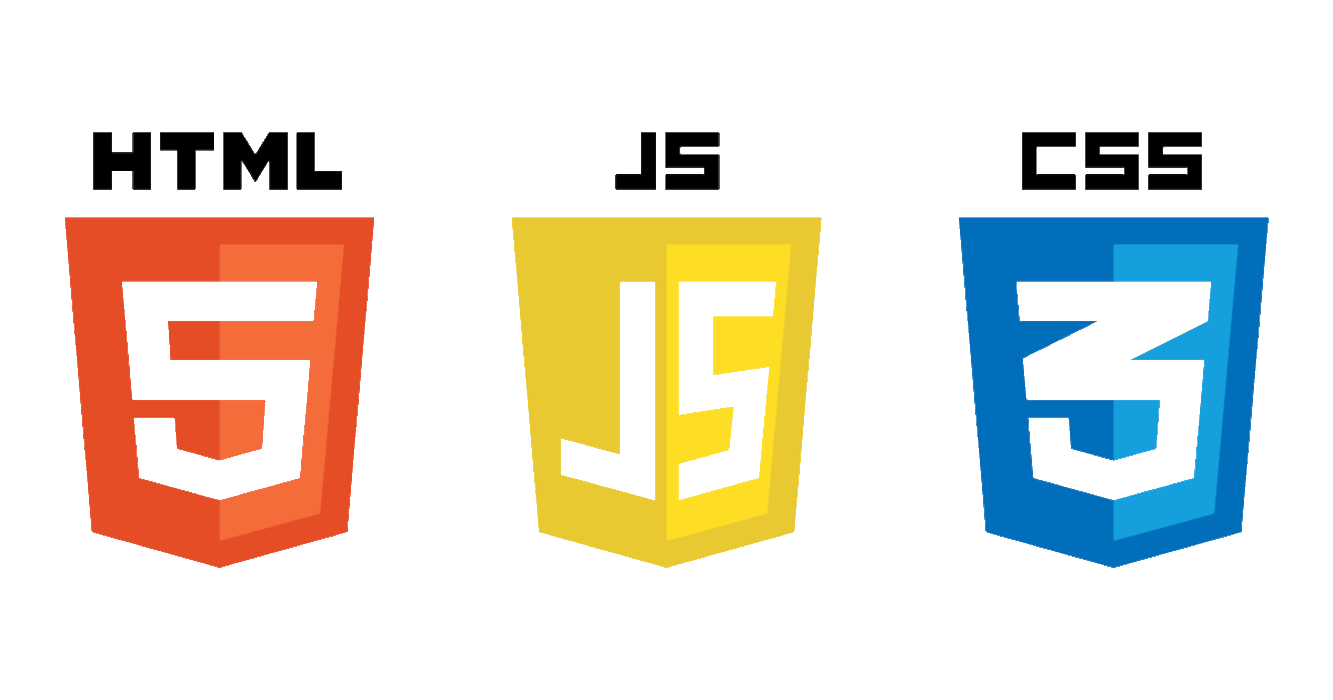
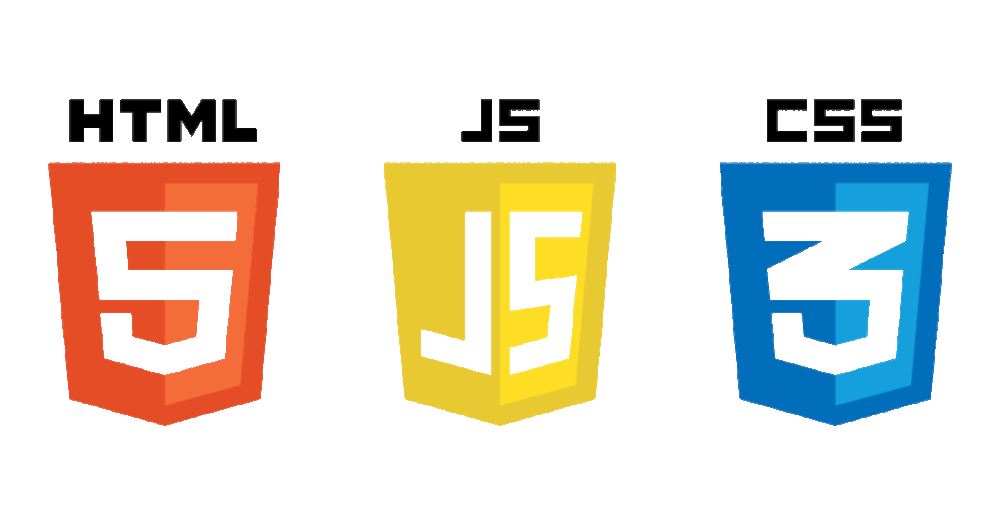
Fixed the image sizing bug that would distort the image when scrolled on carousel.

diff --git a/src/pages/personal/personal.jsx b/src/pages/personal/personal.jsx
@@ -44,7 +44,7 @@ export const Personal = () => {
             </div>
             
             
-            <div id="carouselExampleCaptions" class="carousel slide ">
+            <div id="carouselExampleCaptions" class="carousel slide">
                 <div class="carousel-indicators">
                  <button type="button" data-bs-target="#carouselExampleCaptions" data-bs-slide-to="0" class="active" aria-current="true" aria-label="Slide 1"></button>
                  <button type="button" data-bs-target="#carouselExampleCaptions" data-bs-slide-to="1" aria-label="Slide 2"></button>
@@ -52,7 +52,7 @@ export const Personal = () => {
             </div>
             <div class="carousel-inner">
               <div class="carousel-item active ">
-                <img src={fEndLanguage} class="d-block w-100"  alt="Font-end languages logo"/>
+                <img src={fEndLanguage} class="d-block w-100" alt="Font-end languages logo"/>
                 <div class="carousel-caption d-none d-md-block">
                   <h5> Coding Languages</h5>
                   <p>Unlock the potential of your online presence with expertise in HTML, CSS and JavaScript.</p>

diff --git a/src/pages/personal/personal.css b/src/pages/personal/personal.css
@@ -21,13 +21,14 @@
 
  /* Misc. Style attributes */
 .carousel-item {
-    height: 510px;
+    height: 575px;
     width: 100%;
 }
 
 .carousel-item img {
-    height: 450px;
-    width: 600px
+    object-fit: cover;
+    height: 100%;
+    width: 100%;
 }
 
 .carousel-caption {
@@ -37,4 +38,8 @@
 /* Additional Styling */
 .centerText {
     text-align: center;
+}
+
+.testBorder {
+    border: 2px solid orangered;
 }
